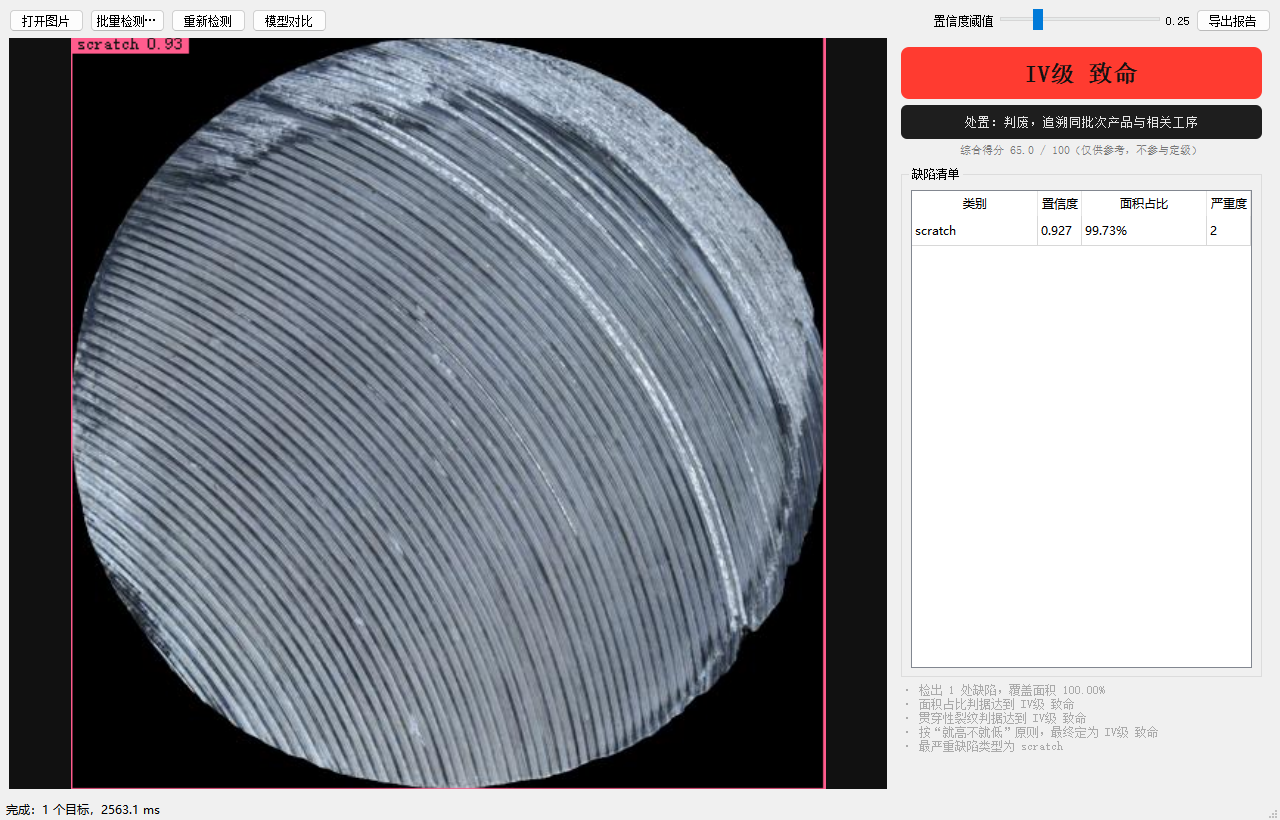
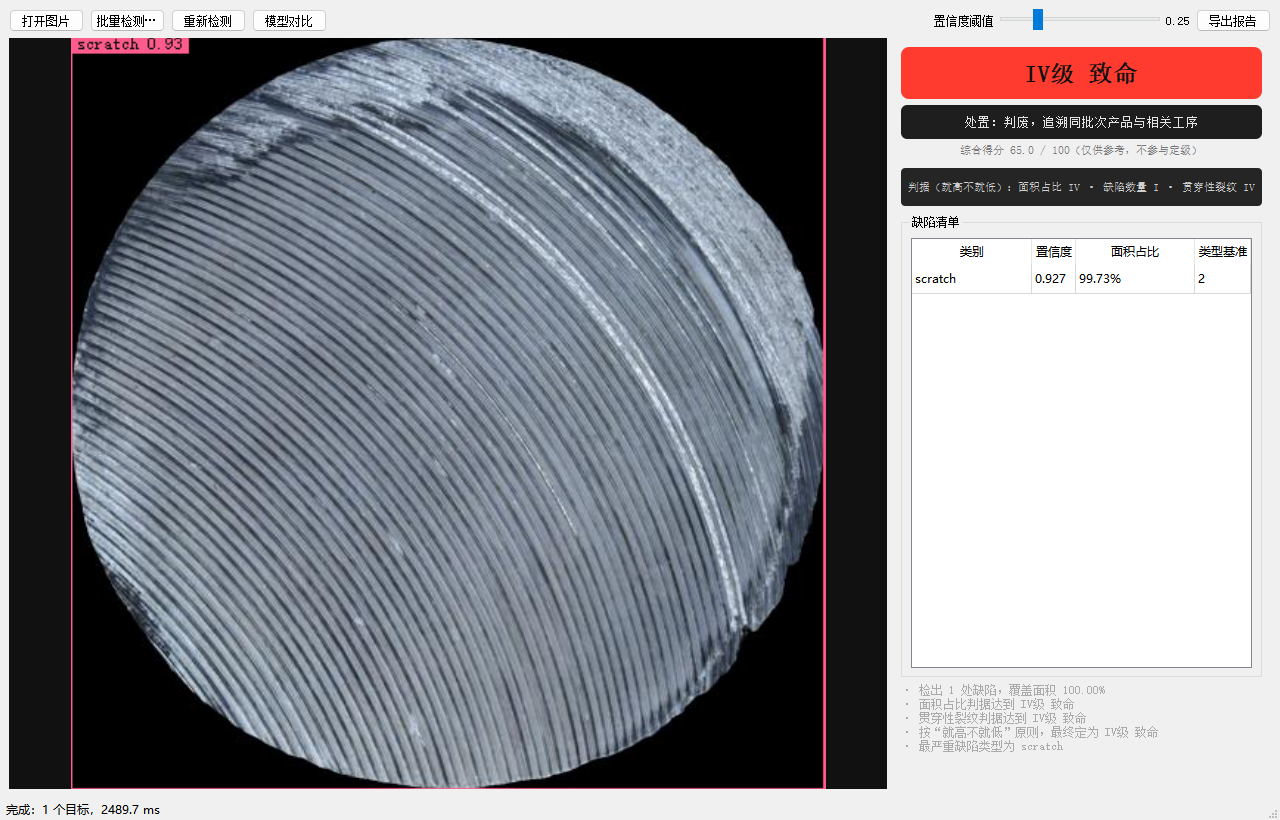
feat: 展示四个判据的分别定级，澄清表头类型基准

Changed region(s): [[0.6875, 0.1829, 1.0, 0.3659], [0.0625, 0.9756, 0.125, 1.0], [0.7188, 0.3354, 0.75, 0.3659]]

diff --git a/src/grade.py b/src/grade.py
@@ -37,6 +37,9 @@ class GradeResult:
     features: dict[str, float] = field(default_factory=dict)
     reasons: list[str] = field(default_factory=list)
     defects: list[dict] = field(default_factory=list)
+    # 每个判据各自给出的等级，例如 {"面积占比": 4, "缺陷数量": 1, "裂纹": 4}
+    # 界面上单独展示，这样"为什么判 IV 级"一眼能看出来，不会被单个数字误导
+    criteria: dict[str, int] = field(default_factory=dict)
 
     def to_dict(self) -> dict:
         return {
@@ -45,9 +48,13 @@ class GradeResult:
             "action": self.action,
             "score": round(self.score, 2),
             "features": {k: round(v, 4) for k, v in self.features.items()},
+            "criteria": self.criteria,
             "reasons": self.reasons,
             "defects": self.defects,
         }
+
+
+ROMAN = {1: "I", 2: "II", 3: "III", 4: "IV"}
 
 
 def load_grading_config(path: str | Path = "configs/grading.yaml") -> dict:
@@ -229,6 +236,7 @@ def grade(
         features=features,
         reasons=reasons,
         defects=defects,
+        criteria=dict(candidates),
     )
 
 
@@ -257,13 +265,19 @@ def format_report(
         "量化特征:",
         f"  缺陷数量      {int(result.features.get('count', 0))}",
         f"  覆盖面积占比  {result.features.get('area_ratio', 0) * 100:.2f}%",
-        f"  最高严重度    {int(result.features.get('severity', 0))} / 4",
+        f"  最高严重度    {int(result.features.get('severity', 0))} / 4（类型基准，不直接决定等级）",
         f"  分布覆盖      {result.features.get('spread', 0) * 100:.1f}%",
     ]
     if result.features.get("crack_max_length"):
         lines.append(f"  最长裂纹      {result.features['crack_max_length'] * 100:.1f}% 图像长边")
     if result.features.get("clustered"):
         lines.append("  连片密集      是")
+    if result.criteria:
+        lines.append("-" * 46)
+        lines.append("判据明细（就高不就低）:")
+        for name, level in result.criteria.items():
+            lines.append(f"  {name:<10} {ROMAN.get(level, str(level))} 级")
+        lines.append(f"  {'最终等级':<10} {ROMAN.get(result.level, str(result.level))} 级")
     if result.defects:
         lines.append("-" * 46)
         lines.append("缺陷清单:")

diff --git a/src/ui/app.py b/src/ui/app.py
@@ -144,10 +144,24 @@ class MainWindow(QMainWindow):
         layout.addWidget(self.score_label)
         layout.addSpacing(6)
 
+        # 四个判据各自给了几级，直接摆出来——不然用户看到"严重度 2"会以为系统判错了
+        self.criteria_label = QLabel("")
+        self.criteria_label.setAlignment(Qt.AlignCenter)
+        self.criteria_label.setWordWrap(True)
+        self.criteria_label.setMinimumHeight(38)
+        self.criteria_label.setStyleSheet(
+            "background:#252525; color:#d0d0d0; border-radius:4px; padding:5px; font-size:11px;"
+        )
+        layout.addWidget(self.criteria_label)
+        layout.addSpacing(4)
+
         group = QGroupBox("缺陷清单")
         group_layout = QVBoxLayout(group)
         self.table = QTableWidget(0, 4)
-        self.table.setHorizontalHeaderLabels(["类别", "置信度", "面积占比", "严重度"])
+        self.table.setHorizontalHeaderLabels(["类别", "置信度", "面积占比", "类型基准"])
+        self.table.horizontalHeaderItem(3).setToolTip(
+            "缺陷类别的基准严重度（1~4），只参与参考得分；\n定级看面积/数量/裂纹/连片四项判据，取最高。"
+        )
         header = self.table.horizontalHeader()
         header.setSectionResizeMode(QHeaderView.Stretch)
         header.setSectionResizeMode(1, QHeaderView.ResizeToContents)
@@ -276,6 +290,15 @@ class MainWindow(QMainWindow):
         self.level_label.setStyleSheet(badge_style(verdict.level))
         self.action_label.setText(f"处置：{verdict.action}")
         self.score_label.setText(f"综合得分 {verdict.score:.1f} / 100（仅供参考，不参与定级）")
+
+        if verdict.criteria:
+            roman = {1: "I", 2: "II", 3: "III", 4: "IV"}
+            parts = [f"{name} {roman.get(level, level)}" for name, level in verdict.criteria.items()]
+            self.criteria_label.setText("判据（就高不就低）：" + " · ".join(parts))
+            self.criteria_label.setVisible(True)
+        else:
+            self.criteria_label.setVisible(False)
+
         self.reason_label.setText("\n".join(f"· {r}" for r in verdict.reasons))
 
         self.table.setRowCount(len(verdict.defects))

diff --git a/tests/test_grade.py b/tests/test_grade.py
@@ -128,6 +128,23 @@ def test_overlapping_boxes_are_not_double_counted():
     assert result.level == 3
 
 
+def test_criteria_are_reported_per_rule():
+    """界面要能逐条解释"为什么判 IV 级"，所以每个判据的等级都要带出来。"""
+    result = grade([detection("scratch", box(0, 250, 420, 258))], IMAGE_SIZE)
+    assert result.level == 4
+    assert result.criteria["面积占比"] == 2      # 只有 1.3%，面积判据只到 II
+    assert result.criteria["缺陷数量"] == 1      # 只有 1 处
+    assert result.criteria["贯穿性裂纹"] == 4    # 长度 82% >= 80%，这条把它拉到 IV
+    assert max(result.criteria.values()) == result.level
+
+
+def test_defect_table_marks_type_baseline_not_final_level():
+    """单个缺陷的 severity 只是类型基准，不能等于最终等级。"""
+    result = grade([detection("scratch", box(0, 250, 420, 258))], IMAGE_SIZE)
+    assert result.defects[0]["severity"] == 2   # scratch 的类型基准
+    assert result.level == 4                    # 但最终等级由判据决定
+
+
 def test_report_contains_level_action_and_reasons():
     result = grade([detection("stain", square(100))], IMAGE_SIZE)
     report = format_report(result, image_name="a.jpg", model_name="best.pt", elapsed_ms=12.3)
